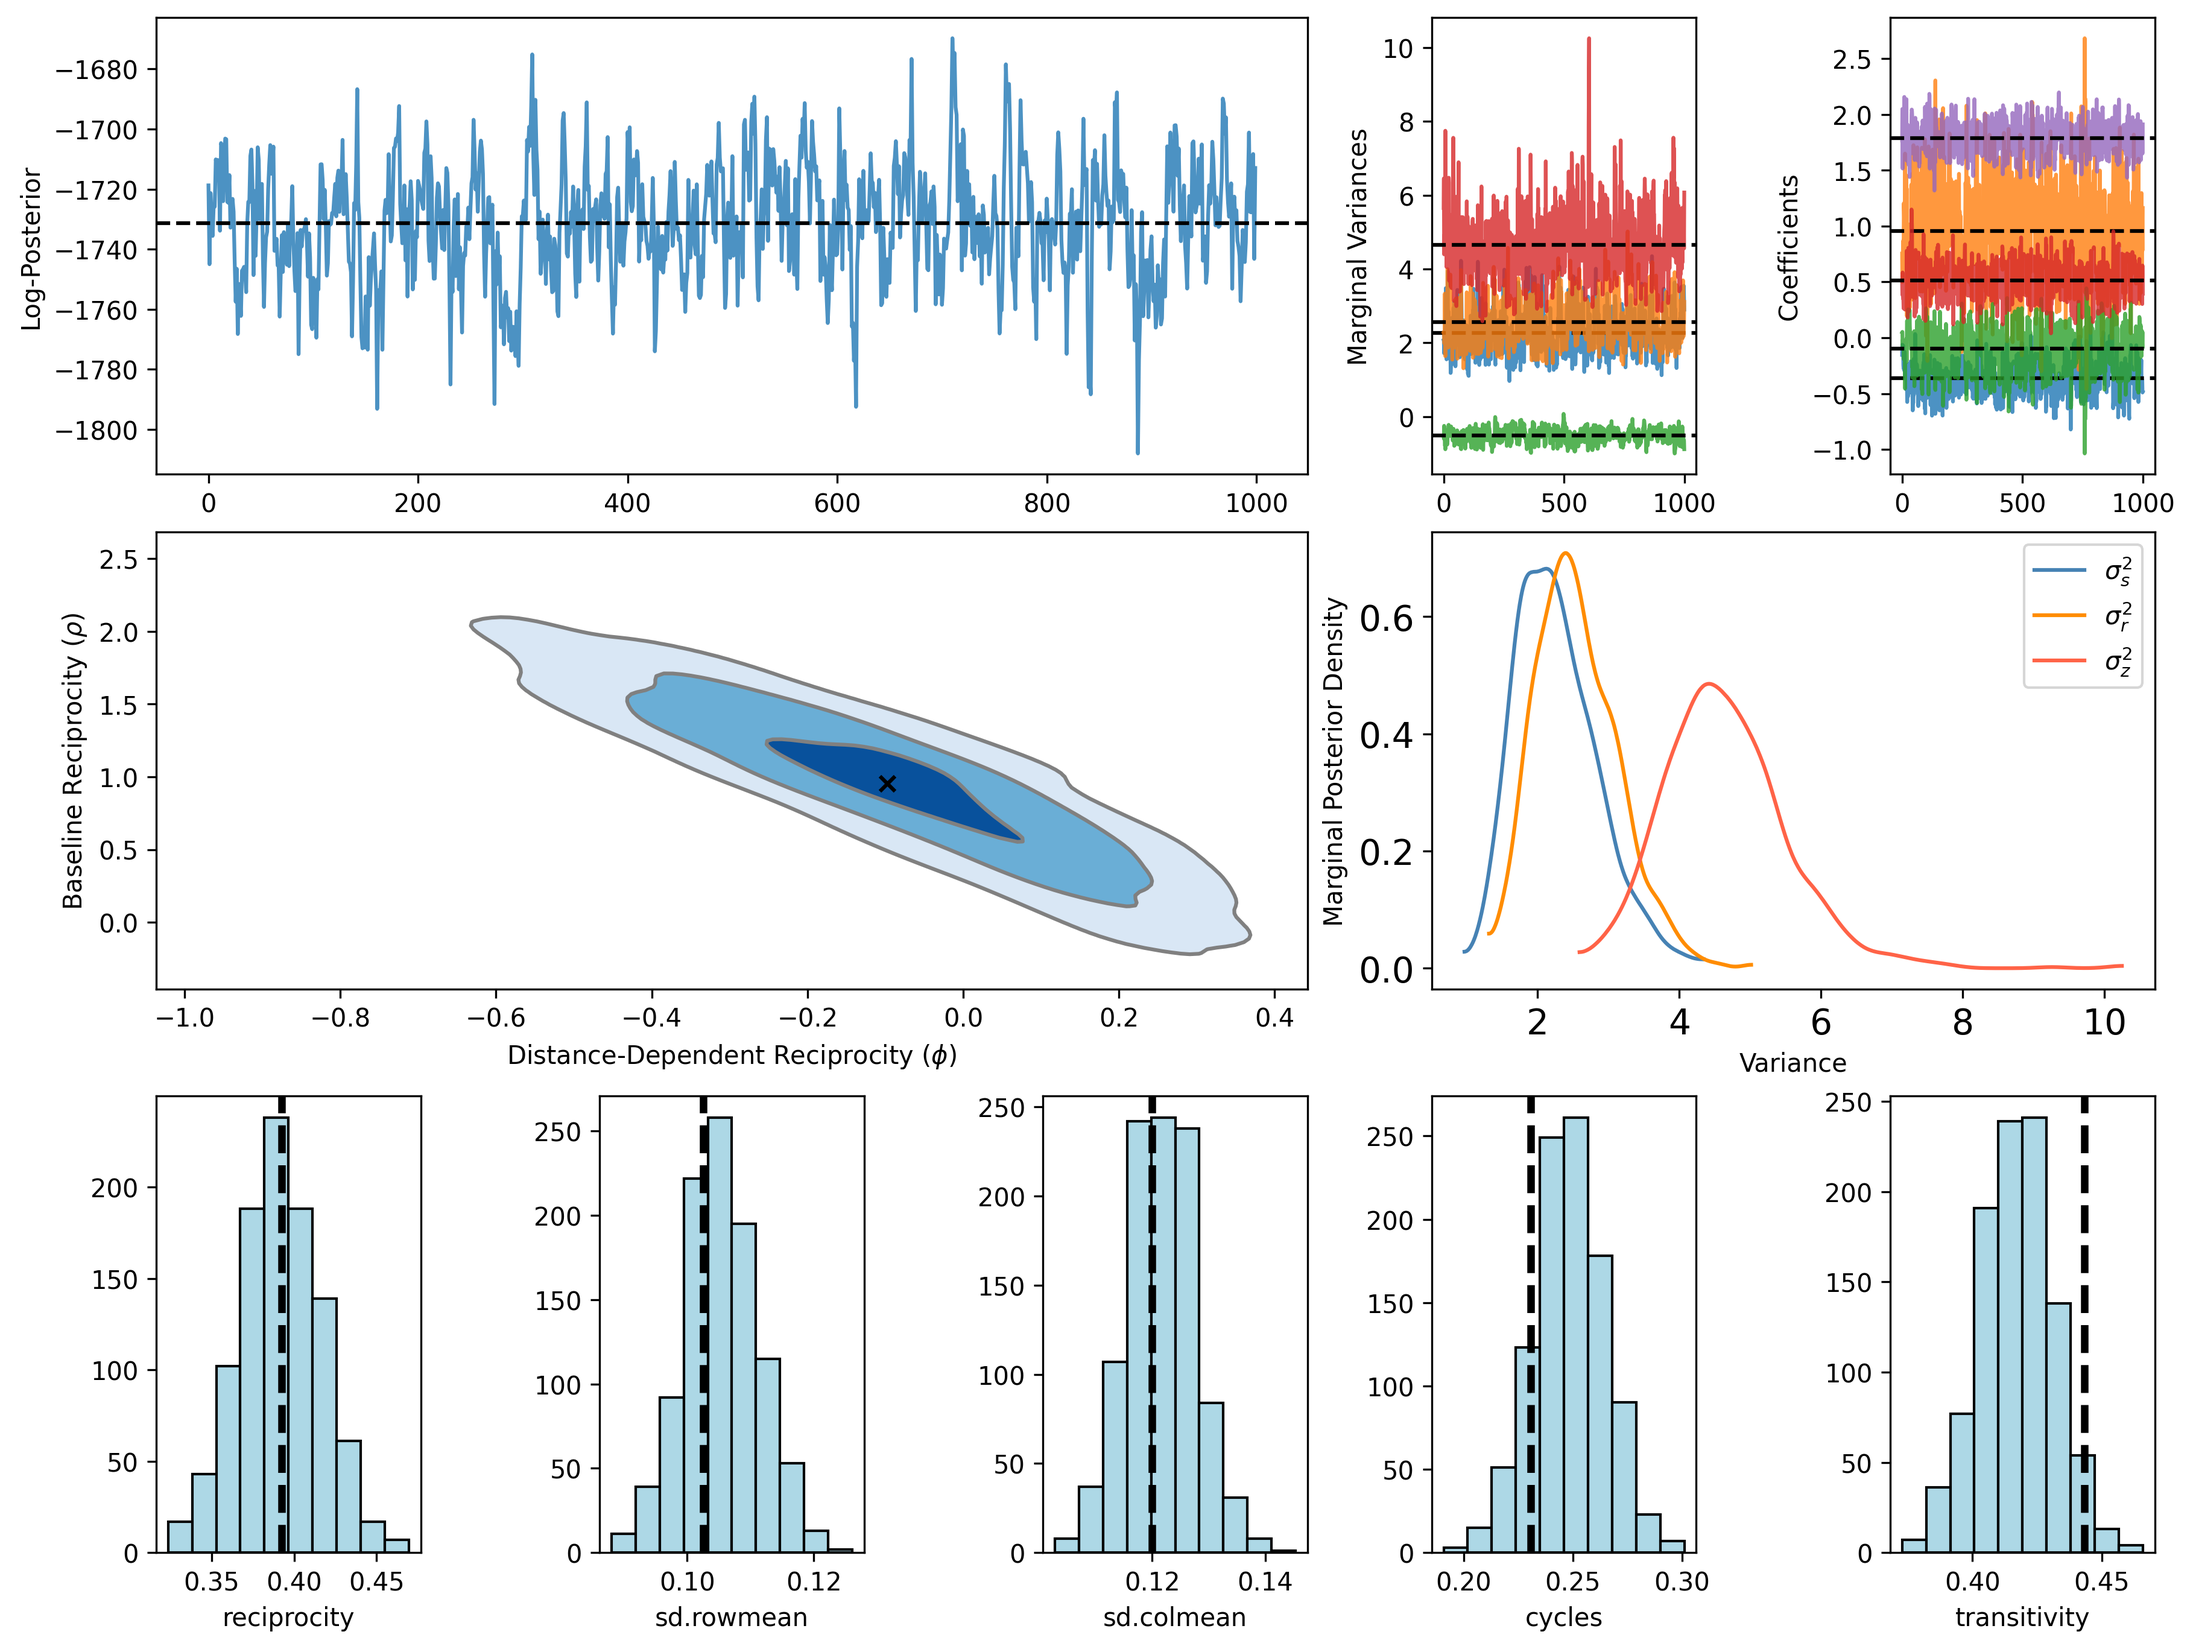
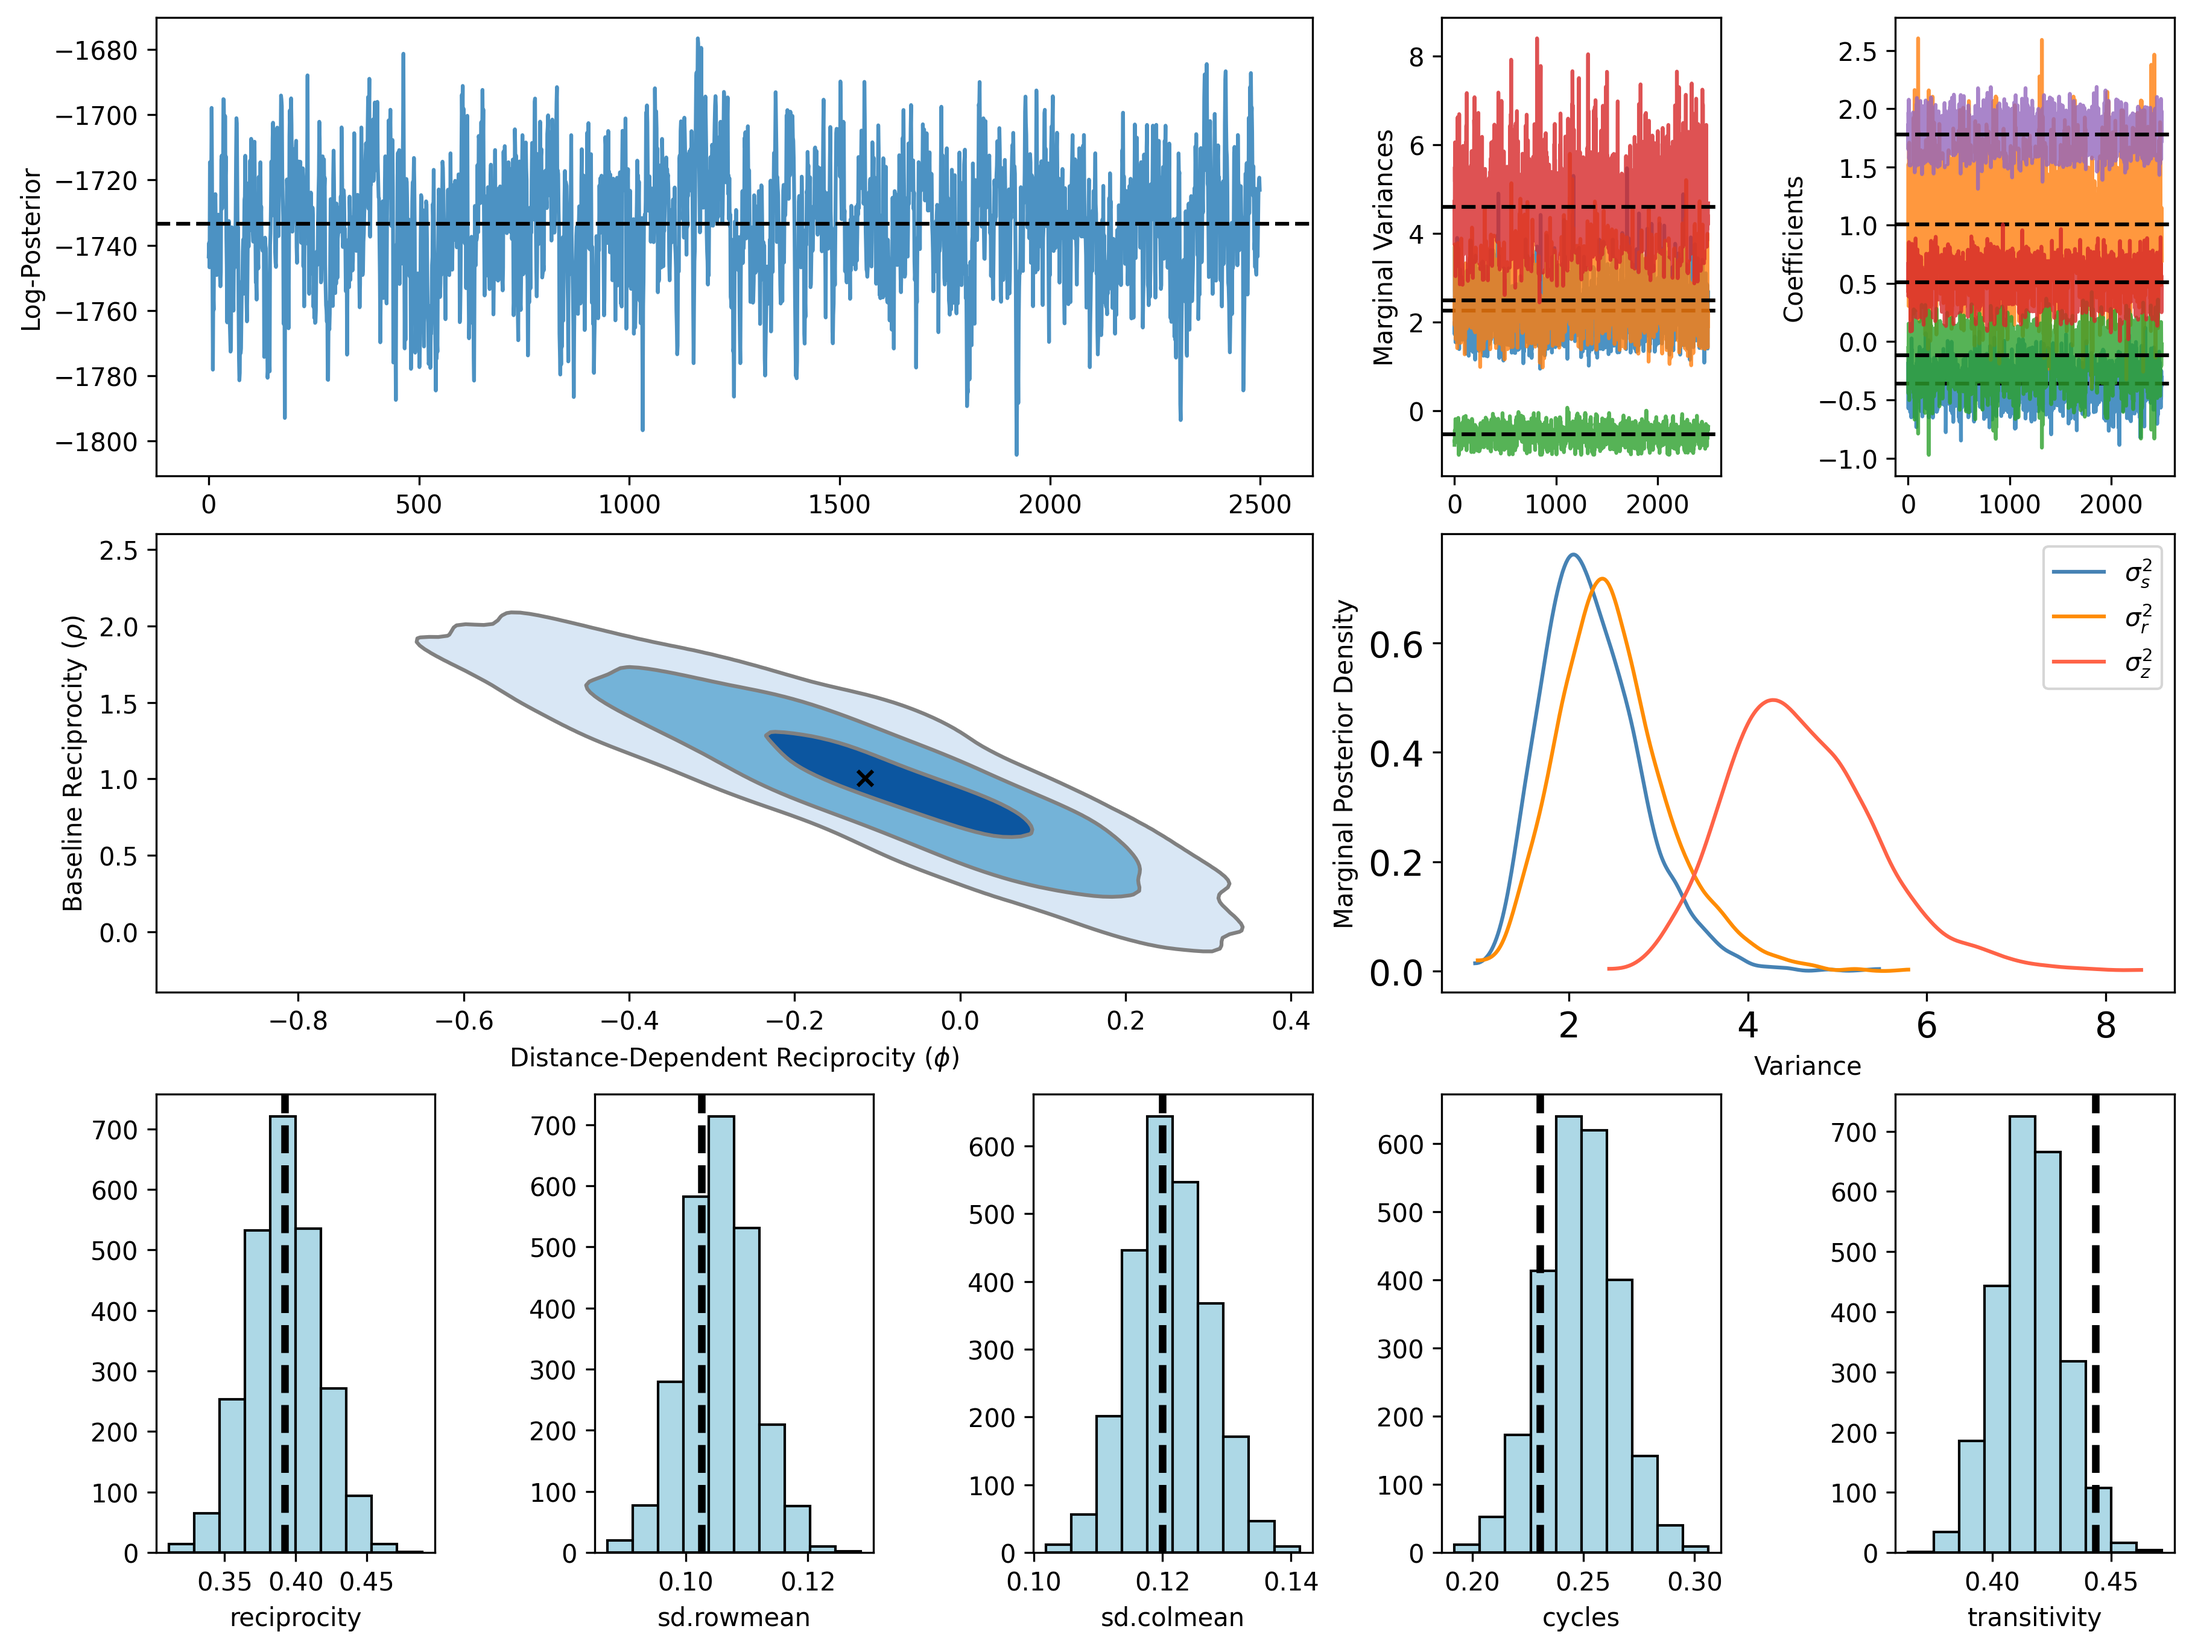
changed example

diff --git a/examples/lawyer_example.py b/examples/lawyer_example.py
@@ -28,7 +28,7 @@ lsm = ReciprocityLSM(n_features=2, reciprocity_type='distance', random_state=42)
 
 # run the MCMC algorithm for 1,000 warmup iterations and collect 1,000 post warmup samples
 # NOTE: Typically more warmup iterations and post-warmup samples should be collected
-lsm.sample(Y, X_dyad=X_dyad, n_warmup=1000, n_samples=1000)
+lsm.sample(Y, X_dyad=X_dyad, n_warmup=2500, n_samples=2500)
 
 # summary of the posterior distribution
 lsm.print_summary()
